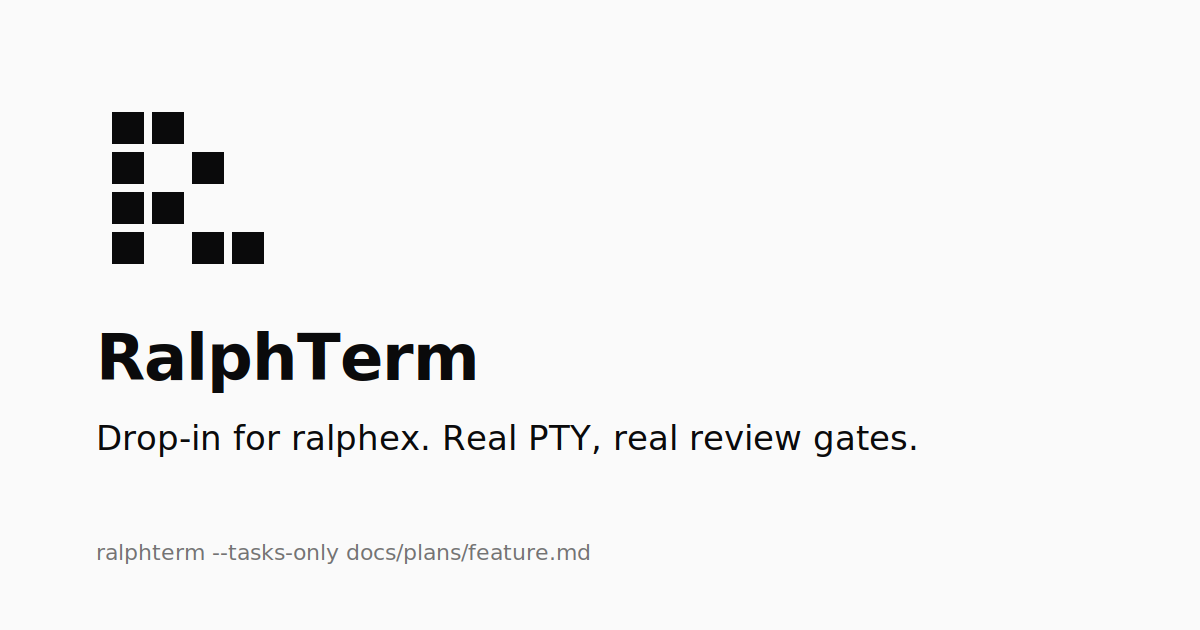
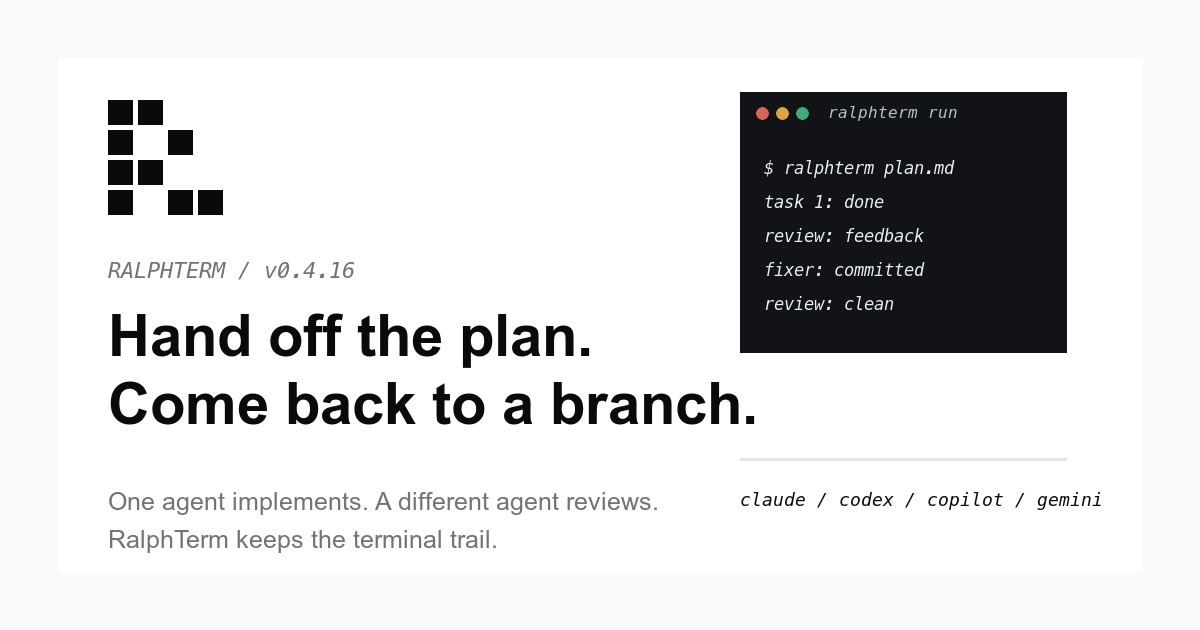
polish website docs and preview

diff --git a/site/docs/index.html b/site/docs/index.html
@@ -59,74 +59,71 @@
       <div class="rt-sidebar-group">
         <p class="rt-sidebar-group-label">API</p>
         <ul>
-          <li><a href="/docs/api.html" class="is-active">HTTP API</a></li>
+          <li><a href="/docs/api.html">HTTP API</a></li>
         </ul>
       </div>
     </aside>
 
     <article class="rt-doc">
-      <h1>Documentation</h1>
-      <p class="rt-lead">RalphTerm is a drop-in replacement for ralphex with PTY-native execution. Start with <a href="/docs/migrate-from-ralphex.html">Migrate from ralphex</a> if you already have a ralphex setup; otherwise <a href="/docs/cli.html">CLI reference</a> covers every supported flag.</p>
+      <section class="rt-doc-hero">
+        <p class="rt-eyebrow">docs</p>
+        <h1>Run a plan, review the branch, keep the trail.</h1>
+        <p class="rt-lead">Start with the plan workflow if you are new to RalphTerm. Start with migration if you already use ralphex. The detailed API docs are here too, but the main product path is the unattended plan loop.</p>
+        <div class="rt-cta-row">
+          <a class="rt-btn is-primary" href="/docs/workflows.html">Plan workflows</a>
+          <a class="rt-btn" href="/docs/cli.html">CLI reference</a>
+          <a class="rt-btn" href="/docs/migrate-from-ralphex.html">Migrate from ralphex</a>
+        </div>
+      </section>
 
-      <h2>Overview</h2>
-      <p><strong>Architecture.</strong> <a href="/docs/architecture.html">How the daemon, PTY runtime, runner, and event store fit together.</a></p>
-      <p><strong>Security.</strong> <a href="/docs/security.html">Authentication, rate-limiting boundaries, isolation guarantees.</a></p>
-      <p><strong>Milestone 1.</strong> <a href="/docs/milestone-one.html">Autonomous engineering workflow shipped on the PTY core.</a></p>
+      <section class="rt-doc-panel">
+        <h2>Fast path</h2>
+        <p>Install, point RalphTerm at a markdown plan, and let the implementer and reviewer loop run from the terminal.</p>
+        <pre><code>curl -sSf https://ralphterm.rayforcedb.com/install.sh | sh
+ralphterm docs/plans/feature.md --review-agent codex</code></pre>
+        <p>For strict review configuration, use <code>--require-review</code> with either <code>--review-command</code> or <code>--review-agent</code>.</p>
+      </section>
 
-      <h2>CLI</h2>
-      <p><strong>CLI reference.</strong> <a href="/docs/cli.html">Every flag from <code>--help</code>, grouped by purpose.</a></p>
-      <p><strong>Ralphex compatibility.</strong> <a href="/docs/ralphex-compat.html">Per-flag status table: supported, accepted, pending.</a></p>
-      <p><strong>Migration guide.</strong> <a href="/docs/migrate-from-ralphex.html">Step-by-step from an existing ralphex install.</a></p>
+      <section class="rt-doc-grid">
+        <a href="/docs/workflows.html">
+          <strong>Workflows</strong>
+          <span>Plan run, review-only, external-only, retry behavior, transcripts, validation output.</span>
+        </a>
+        <a href="/docs/cli.html">
+          <strong>CLI reference</strong>
+          <span>Every supported flag from <code>--help</code>, grouped by what you are trying to control.</span>
+        </a>
+        <a href="/docs/providers.html">
+          <strong>Providers</strong>
+          <span>Claude, Codex, Copilot, Gemini, and OpenCode command wrappers.</span>
+        </a>
+        <a href="/docs/ralphex-compat.html">
+          <strong>Ralphex compatibility</strong>
+          <span>Drop-in behavior, accepted flags, supported flags, and deliberate differences.</span>
+        </a>
+        <a href="/docs/docker.html">
+          <strong>Docker</strong>
+          <span>Containerized execution with extra volumes and environment passthrough.</span>
+        </a>
+        <a href="/docs/notifications.html">
+          <strong>Notifications</strong>
+          <span>Telegram, Slack, email, and webhook events for unattended runs.</span>
+        </a>
+        <a href="/docs/architecture.html">
+          <strong>Architecture</strong>
+          <span>PTY runtime, runner, event store, dashboard, and file handoff design.</span>
+        </a>
+        <a href="/docs/security.html">
+          <strong>Security</strong>
+          <span>Local trust boundaries, provider credentials, isolation, and operational limits.</span>
+        </a>
+        <a href="/docs/api.html">
+          <strong>HTTP API</strong>
+          <span>Session and run endpoints, transcripts, progress, and dashboard integration.</span>
+        </a>
+      </section>
 
-      <h2>Run</h2>
-      <p><strong>Workflows.</strong> <a href="/docs/workflows.html">Plan run, review-only, external-only modes.</a></p>
-      <p><strong>Providers.</strong> <a href="/docs/providers.html">Codex, Copilot, Gemini, OpenCode wrappers.</a></p>
-      <p><strong>Docker.</strong> <a href="/docs/docker.html">Isolated container execution.</a></p>
-      <p><strong>Notifications.</strong> <a href="/docs/notifications.html">Telegram / Slack / Email / Webhook configuration.</a></p>
-
-      <h2>API</h2>
-      <p><strong>HTTP API.</strong> <a href="/docs/api.html">Session and run endpoints, transcripts, events.</a></p>
-
-      <h2>Getting started</h2>
-      <p>RalphTerm is a local Rust daemon that launches official AI CLIs inside real PTYs and exposes an API for orchestration.</p>
-      <h3>Install from source</h3>
-      <pre><code>git clone [email redacted]:RayforceDB/ralphterm.git
-cd ralphterm
-cargo build --release</code></pre>
-      <h3>Start the daemon</h3>
-      <pre><code>cargo run -- serve --bind 127.0.0.1:7878</code></pre>
-      <h3>Health check</h3>
-      <pre><code>curl http://127.0.0.1:7878/health
-# {"ok":true}</code></pre>
-      <h3>Deterministic smoke test</h3>
-      <p>Use a shell command override before testing real agents.</p>
-      <pre><code>cat > /tmp/ralphterm-smoke.json <<'JSON'
-{
-  "agent": "claude",
-  "command": "/bin/sh",
-  "args": ["-lc", "read line; printf '%s\\n' \"$line\"; echo COMPLETED"],
-  "prompt": "hello from ralphterm"
-}
-JSON
-
-ID=$(curl -sS -X POST http://127.0.0.1:7878/v1/sessions \
-  -H 'content-type: application/json' \
-  --data-binary @/tmp/ralphterm-smoke.json \
-  | python3 -c 'import sys,json; print(json.load(sys.stdin)["id"])')
-
-curl http://127.0.0.1:7878/v1/sessions/$ID
-curl http://127.0.0.1:7878/v1/sessions/$ID/transcript</code></pre>
-      <h3>Real agent smoke check</h3>
-      <p>After authenticating the official CLI, verify it can start in a real PTY, receive input, emit <code>COMPLETED</code>, and exit.</p>
-      <pre><code>ralphterm smoke --agent claude
-ralphterm smoke --agent codex</code></pre>
-      <h3>Preview a plan</h3>
-      <pre><code>ralphterm run docs/plans/example.md --dry-run</code></pre>
-      <p>That prints pending tasks, review mode, review retry budget, and validation commands only. It does not start an agent, edit the plan, write <code>.ralphterm/progress/</code>, or commit.</p>
-      <h3>Workspace-isolated plan run</h3>
-      <pre><code>ralphterm run docs/plans/example.md --workspace-id docs-slice --agent claude</code></pre>
-      <p>RalphTerm creates a managed git worktree at <code>.ralphterm/workspaces/&lt;id&gt;</code>, resolves the caller-relative plan path before switching directories, and runs from the matching path inside that worktree. It does not auto-clean the worktree after the run; inspect it or remove it later with <code>ralphterm workspace cleanup &lt;id&gt;</code>. With <code>--dry-run --workspace-id &lt;id&gt;</code>, dry run only previews the workspace path and plan work without creating the worktree or running an agent.</p>
-      <p>A minimal plan is just a validation block plus unchecked task items:</p>
+      <h2>Minimal reviewed plan</h2>
       <pre><code># Example plan
 
 ## Validation Commands
@@ -136,25 +133,14 @@ ralphterm smoke --agent codex</code></pre>
 - [ ] Write the failing test first
 - [ ] Implement the slice
 - [ ] Run the validation command</code></pre>
-      <p>RalphTerm sends the pending task to the implementation agent, then runs the validation commands. If review is required, the reviewer sees the transcript, validation output, and git diff before it can print <code>REVIEW_PASS</code>.</p>
-      <h3>Plan run with review</h3>
-      <p>Use <code>--require-review</code> for real plan runs that must have an independent reviewer. RalphTerm fails before agent execution unless <code>--review-command</code> or <code>--review-agent</code> is supplied.</p>
-      <pre><code>ralphterm run docs/plans/example.md --agent claude \
-  --require-review \
-  --review-agent codex
+      <p>RalphTerm sends the pending task to the implementation agent, runs validation, then starts the independent reviewer. The reviewer sees the transcript, validation output, and git diff before it can print <code>REVIEW_PASS</code>.</p>
 
-ralphterm run docs/plans/example.md --agent claude \
-  --require-review \
-  --review-command "codex exec review-task"</code></pre>
-      <p>The reviewer starts after validation and must print an exact <code>REVIEW_PASS</code> line. By default, <code>REVIEW_FAIL</code> triggers one retry with reviewer feedback; if review still fails, the task stays unchecked and no commit is made. Use <code>--max-review-retries N</code> to allow more review-driven retries, or <code>--max-review-retries 0</code> to block on the first failed review.</p>
-      <h3>Real agent sessions</h3>
-      <p>Install and authenticate the official CLI first. RalphTerm does not own provider credentials.</p>
-      <pre><code>claude auth login
-codex login
-
-curl -sS -X POST http://127.0.0.1:7878/v1/sessions \
-  -H 'content-type: application/json' \
-  -d '{"agent":"claude","prompt":"Say hello and end with COMPLETED"}'</code></pre>
+      <h2>Useful first commands</h2>
+        <pre><code>ralphterm run docs/plans/example.md --dry-run
+ralphterm run docs/plans/example.md --workspace-id docs-slice --agent claude
+ralphterm run docs/plans/example.md --agent claude --review-agent codex
+ralphterm serve</code></pre>
+      <p>Use dry run to inspect pending tasks, review mode, retry budget, workspace path, and validation commands before agents start. With <code>--workspace-id &lt;id&gt;</code>, RalphTerm creates a managed worktree at <code>.ralphterm/workspaces/&lt;id&gt;</code>, resolves the caller-relative plan path before switching workspace, and does not auto-clean it after the run. In dry-run mode, dry run only previews the workspace path and plan work. Use <code>ralphterm serve</code> when you want the dashboard and live transcripts.</p>
     </article>
   </div>
 

diff --git a/site/assets/styles.css b/site/assets/styles.css
@@ -232,6 +232,41 @@ h1, h2, h3, h4 { margin: 0; font-weight: 600; }
 }
 .rt-code-block + .rt-code-block { margin-top: 6px; }
 
+/* Workflow trace */
+.rt-trace {
+  display: grid;
+  grid-template-columns: 1fr;
+  gap: 10px;
+}
+@media (min-width: 860px) {
+  .rt-trace { grid-template-columns: repeat(3, 1fr); }
+}
+.rt-trace > div {
+  min-width: 0;
+  border: 1px solid var(--rt-rule);
+  background: var(--rt-panel);
+}
+.rt-trace-label {
+  margin: 0;
+  padding: 9px 11px;
+  border-bottom: 1px solid var(--rt-rule);
+  font-family: var(--rt-font-mono);
+  font-size: 10px;
+  font-weight: 600;
+  text-transform: uppercase;
+}
+.rt-trace pre {
+  margin: 0;
+  padding: 12px;
+  overflow-x: auto;
+  background: var(--rt-panel);
+  color: var(--rt-fg);
+  font-family: var(--rt-font-mono);
+  font-size: 11px;
+  line-height: 1.55;
+}
+.rt-trace code { font-size: inherit; }
+
 /* Copy-to-clipboard icon (added by /assets/copy.js). 12px SVG glyph,
  * currentColor stroke, faded until hover/focus. Sits in the top-right
  * corner of every <pre>. */
@@ -396,6 +431,55 @@ h1, h2, h3, h4 { margin: 0; font-weight: 600; }
 .rt-doc {
   padding: 28px var(--rt-pad-x) 48px;
   max-width: var(--rt-read-max);
+}
+.rt-doc-hero {
+  margin: -2px 0 24px;
+  padding: 0 0 22px;
+  border-bottom: 1px solid var(--rt-rule);
+}
+.rt-doc-hero h1 {
+  max-width: 620px;
+}
+.rt-doc-panel {
+  margin: 0 0 22px;
+  padding: 16px;
+  border: 1px solid var(--rt-rule);
+  background: var(--rt-panel);
+}
+.rt-doc-panel h2 {
+  margin-top: 0;
+}
+.rt-doc-grid {
+  display: grid;
+  grid-template-columns: 1fr;
+  gap: 8px;
+  margin: 0 0 24px;
+}
+@media (min-width: 720px) {
+  .rt-doc-grid { grid-template-columns: 1fr 1fr; }
+}
+.rt-doc-grid a {
+  display: block;
+  min-width: 0;
+  padding: 13px 14px;
+  border: 1px solid var(--rt-rule);
+  background: var(--rt-panel);
+  color: var(--rt-fg);
+  text-decoration: none;
+}
+.rt-doc-grid a:hover {
+  border-color: var(--rt-fg);
+}
+.rt-doc-grid strong {
+  display: block;
+  margin-bottom: 5px;
+  font-size: 14px;
+}
+.rt-doc-grid span {
+  display: block;
+  color: var(--rt-muted);
+  font-size: 12px;
+  line-height: 1.45;
 }
 .rt-doc h1 { font-size: 28px; line-height: 1.15; margin: 0 0 18px; }
 .rt-doc h2 { font-size: 18px; line-height: 1.25; margin: 28px 0 10px; }

diff --git a/site/index.html b/site/index.html
@@ -135,6 +135,43 @@ branch ready: feature-plan</code></pre>
       <p style="max-width:var(--rt-read-max);margin-top:12px"><strong>4. You walk away.</strong> Per-task commits + transcripts let you read what happened. A web dashboard, notifications (Telegram, Slack, Email, Webhook), and clean Ctrl+C resume mean you don't have to babysit it. Come back to a finished branch — or a clear "here's what blocked" if the cross-review couldn't be satisfied.</p>
     </section>
 
+    <!-- Trace -->
+    <section class="rt-section">
+      <p class="rt-eyebrow">— trace</p>
+      <div class="rt-trace">
+        <div>
+          <p class="rt-trace-label">input</p>
+          <pre><code># docs/plans/imports.md
+
+## Validation Commands
+- `cargo test --all`
+
+### Task 1
+- [ ] Replace ad hoc imports
+- [ ] Run validation</code></pre>
+        </div>
+        <div>
+          <p class="rt-trace-label">run</p>
+          <pre><code>$ ralphterm docs/plans/imports.md
+
+task 1: implementation committed
+phase 1: reviewer found missing coverage
+fixer: added regression test
+phase 3: review clean</code></pre>
+        </div>
+        <div>
+          <p class="rt-trace-label">output</p>
+          <pre><code>branch: imports-plan
+
+commits:
+  implement task 1
+  address review feedback
+
+status: ready for human review</code></pre>
+        </div>
+      </div>
+    </section>
+
     <!-- Invoke -->
     <section class="rt-section">
       <p class="rt-eyebrow">— invoke</p>